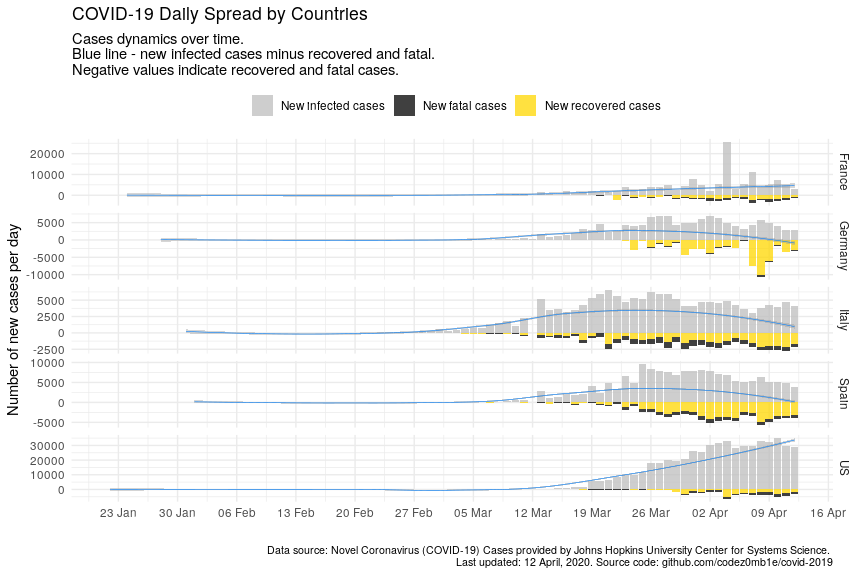
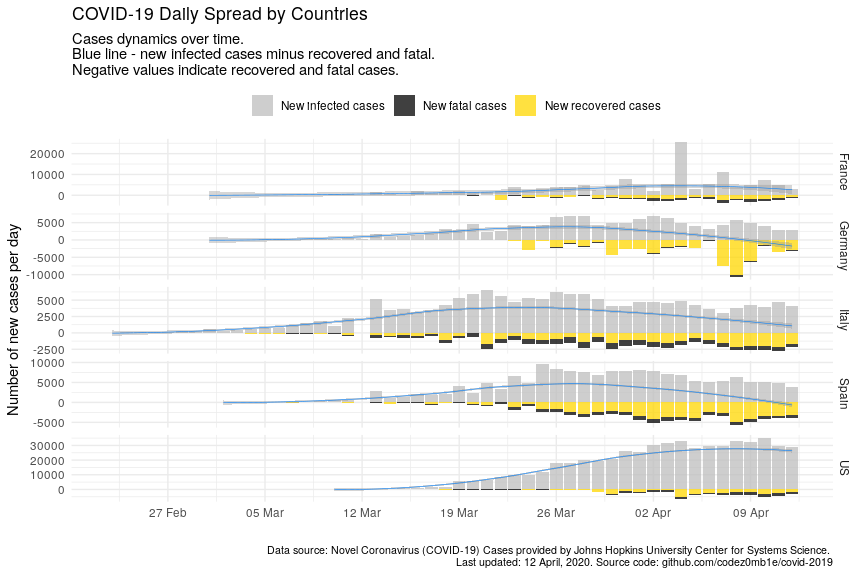
Daily update

diff --git a/src/covid-19-eda.md b/src/covid-19-eda.md
@@ -32,11 +32,11 @@ COVID-19 Analytics
           - [by active cases](#by-active-cases)
           - [by fatal cases](#by-fatal-cases)
       - [Active cases per 1 million population vs number of days since
-        1st infected
-        case](#active-cases-per-1-million-population-vs-number-of-days-since-1st-infected-case)
+        100th infected
+        case](#active-cases-per-1-million-population-vs-number-of-days-since-100th-infected-case)
       - [Active cases per 1 million population vs number of days since
-        1st fatal
-        case](#active-cases-per-1-million-population-vs-number-of-days-since-1st-fatal-case)
+        10th fatal
+        case](#active-cases-per-1-million-population-vs-number-of-days-since-10th-fatal-case)
 
 ## Load datasets
 
@@ -53,18 +53,18 @@ Get list of files in datasets
 Load `covid_19_data.csv` dataset:
 
     ## # A tibble: 100 x 8
-    ##      SNo ObservationDate Province.State Country.Region    Last.Update     Confirmed Deaths Recovered
-    ##    <int> <chr>           <chr>          <chr>             <chr>               <dbl>  <dbl>     <dbl>
-    ##  1  7592 03/21/2020      <NA>           Fiji              2020-03-19T14:…         1      0         0
-    ##  2  1407 02/13/2020      <NA>           Sri Lanka         2020-02-08T03:…         1      0         1
-    ##  3  7918 03/23/2020      <NA>           Algeria           2020-03-23 23:…       230     17        65
-    ##  4  7819 03/22/2020      Guangxi        Mainland China    3/8/20 5:31           254      2       250
-    ##  5  9661 03/28/2020      Maine          US                3/8/20 5:31           211      1         0
-    ##  6  2919 03/01/2020      <NA>           Estonia           2020-02-27T16:…         1      0         0
-    ##  7  5457 03/14/2020      <NA>           United Arab Emir… 2020-03-13T22:…        85      0        17
-    ##  8  5912 03/16/2020      Denmark        Denmark           2020-03-16T18:…       914      3         1
-    ##  9  2708 02/29/2020      Jiangxi        Mainland China    2020-02-29T01:…       935      1       811
-    ## 10  8614 03/25/2020      <NA>           Mongolia          2020-03-25 23:…        10      0         0
+    ##      SNo ObservationDate Province.State   Country.Region Last.Update      Confirmed Deaths Recovered
+    ##    <int> <chr>           <chr>            <chr>          <chr>                <dbl>  <dbl>     <dbl>
+    ##  1  8135 03/23/2020      Kansas           US             2020-03-23 23:2…        84      2         0
+    ##  2  5692 03/15/2020      Shanxi           Mainland China 2020-03-13T11:0…       133      0       133
+    ##  3 12157 04/05/2020      Hong Kong        Hong Kong      2020-04-05 23:1…       890      4       206
+    ##  4  3954 03/07/2020      Davis County, UT US             2020-03-07T04:4…         1      0         0
+    ##  5  5434 03/14/2020      <NA>             Brazil         2020-03-13T22:2…       151      0         0
+    ##  6  9281 03/27/2020      <NA>             Ukraine        2020-03-27 23:2…       310      5         5
+    ##  7  9369 03/27/2020      New Mexico       US             2020-03-27 23:2…       136      1         0
+    ##  8  8015 03/23/2020      <NA>             Montenegro     2020-03-23 23:2…        27      1         0
+    ##  9  5476 03/14/2020      Victoria         Australia      2020-03-14T13:3…        49      0         8
+    ## 10  9314 03/27/2020      Florida          US             2020-03-27 23:2…      2900     35         0
     ## # … with 90 more rows
 
 ### Load world population data
@@ -290,7 +290,7 @@ cases minus recovered and fatal) cases grouped by country:
 
 Get countries ordered by total active cases:
 
-    ## # A tibble: 7,727 x 10
+    ## # A tibble: 3,143 x 10
     ##    country observation_date active_total active_total_de… confirmed_total confirmed_total…
     ##    <chr>   <date>                  <dbl> <chr>                      <dbl> <chr>           
     ##  1 US      2020-04-12             500305 5.40%                     555313 5.49%           
@@ -303,7 +303,7 @@ Get countries ordered by total active cases:
     ##  8 Iran    2020-04-12              23318 -1.72%                     71686 2.37%           
     ##  9 Nether… 2020-04-12              22704 4.98%                      25746 4.78%           
     ## 10 Brazil  2020-04-12              20796 7.03%                      22192 7.07%           
-    ## # … with 7,717 more rows, and 4 more variables: recovered_total <dbl>, recovered_total_delta <chr>,
+    ## # … with 3,133 more rows, and 4 more variables: recovered_total <dbl>, recovered_total_delta <chr>,
     ## #   deaths_total <dbl>, deaths_total_delta <chr>
 
 ![](covid-19-eda_files/figure-gfm/unnamed-chunk-20-1.png)<!-- -->
@@ -324,21 +324,21 @@ Get daily dynamics of new infected and recovered cases by countries.
 
 World daily spread:
 
-    ## # A tibble: 7,727 x 6
-    ## # Groups:   country [220]
-    ##    country   observation_date confirmed_total_p… recovered_total_… deaths_total_pe… active_total_pe…
-    ##    <chr>     <date>                        <dbl>             <dbl>            <dbl>            <dbl>
-    ##  1 Afghanis… 2020-04-12                       52                 0                0               52
-    ##  2 Albania   2020-04-12                       13                20                0               -7
-    ##  3 Algeria   2020-04-12                       89               131               18              -60
-    ##  4 Andorra   2020-04-12                       37                57                3              -23
-    ##  5 Angola    2020-04-12                        0                 0                0                0
-    ##  6 Antigua … 2020-04-12                        0                 0                0                0
-    ##  7 Argentina 2020-04-12                      167                28                7              132
-    ##  8 Armenia   2020-04-12                       46                24                0               22
-    ##  9 Australia 2020-04-12                       12                 0                3                9
-    ## 10 Austria   2020-04-12                      139               383               13             -257
-    ## # … with 7,717 more rows
+    ## # A tibble: 3,143 x 6
+    ## # Groups:   country [125]
+    ##    country  observation_date confirmed_total_p… recovered_total_p… deaths_total_pe… active_total_pe…
+    ##    <chr>    <date>                        <dbl>              <dbl>            <dbl>            <dbl>
+    ##  1 Afghani… 2020-04-12                       52                  0                0               52
+    ##  2 Albania  2020-04-12                       13                 20                0               -7
+    ##  3 Algeria  2020-04-12                       89                131               18              -60
+    ##  4 Andorra  2020-04-12                       37                 57                3              -23
+    ##  5 Argenti… 2020-04-12                      167                 28                7              132
+    ##  6 Armenia  2020-04-12                       46                 24                0               22
+    ##  7 Austral… 2020-04-12                       12                  0                3                9
+    ##  8 Austria  2020-04-12                      139                383               13             -257
+    ##  9 Azerbai… 2020-04-12                       40                 50                0              -10
+    ## 10 Bahrain  2020-04-12                       96                  3                0               93
+    ## # … with 3,133 more rows
 
     ## `geom_smooth()` using formula 'y ~ x'
 
@@ -350,20 +350,20 @@ World daily spread:
 
 ### Mortality rate
 
-    ## # A tibble: 44 x 8
-    ##    country observation_date first_confirmed… first_deaths_ca… recovered_total deaths_total
+    ## # A tibble: 34 x 8
+    ##    country observation_date since_100_confi… since_10_deaths… recovered_total deaths_total
     ##    <chr>   <date>           <date>           <date>                     <dbl>        <dbl>
-    ##  1 US      2020-04-12       2020-01-22       2020-02-29                 32988        22020
-    ##  2 US      2020-04-11       2020-01-22       2020-02-29                 31270        20463
-    ##  3 US      2020-04-10       2020-01-22       2020-02-29                 28790        18586
-    ##  4 US      2020-04-09       2020-01-22       2020-02-29                 25410        16478
-    ##  5 US      2020-04-08       2020-01-22       2020-02-29                 23559        14695
-    ##  6 US      2020-04-07       2020-01-22       2020-02-29                 21763        12722
-    ##  7 US      2020-04-06       2020-01-22       2020-02-29                 19581        10783
-    ##  8 US      2020-04-05       2020-01-22       2020-02-29                 17448         9619
-    ##  9 US      2020-04-04       2020-01-22       2020-02-29                 14652         8407
-    ## 10 US      2020-04-03       2020-01-22       2020-02-29                  9707         7087
-    ## # … with 34 more rows, and 2 more variables: confirmed_deaths_rate <dbl>,
+    ##  1 US      2020-04-12       2020-03-10       2020-03-04                 32988        22020
+    ##  2 US      2020-04-11       2020-03-10       2020-03-04                 31270        20463
+    ##  3 US      2020-04-10       2020-03-10       2020-03-04                 28790        18586
+    ##  4 US      2020-04-09       2020-03-10       2020-03-04                 25410        16478
+    ##  5 US      2020-04-08       2020-03-10       2020-03-04                 23559        14695
+    ##  6 US      2020-04-07       2020-03-10       2020-03-04                 21763        12722
+    ##  7 US      2020-04-06       2020-03-10       2020-03-04                 19581        10783
+    ##  8 US      2020-04-05       2020-03-10       2020-03-04                 17448         9619
+    ##  9 US      2020-04-04       2020-03-10       2020-03-04                 14652         8407
+    ## 10 US      2020-04-03       2020-03-10       2020-03-04                  9707         7087
+    ## # … with 24 more rows, and 2 more variables: confirmed_deaths_rate <dbl>,
     ## #   recovered_deaths_rate <dbl>
 
 ![](covid-19-eda_files/figure-gfm/unnamed-chunk-27-1.png)<!-- -->
@@ -374,20 +374,20 @@ World daily spread:
 
 ## COVID-19 spread by countries population
 
-    ## # A tibble: 73 x 5
-    ##    country n_days_since_1st_confirmed population confirmed_total confirmed_total_per_1M
+    ## # A tibble: 27 x 5
+    ##    country n_days_since_100_confirmed population confirmed_total confirmed_total_per_1M
     ##    <chr>                        <dbl>      <int>           <dbl>                  <dbl>
-    ##  1 Russia                          72  145934462           15770                  108. 
-    ##  2 Russia                          71  145934462           13584                   93.1
-    ##  3 Russia                          70  145934462           11917                   81.7
-    ##  4 Russia                          69  145934462           10131                   69.4
-    ##  5 Russia                          68  145934462            8672                   59.4
-    ##  6 Russia                          67  145934462            7497                   51.4
-    ##  7 Russia                          66  145934462            6343                   43.5
-    ##  8 Russia                          65  145934462            5389                   36.9
-    ##  9 Russia                          64  145934462            4731                   32.4
-    ## 10 Russia                          63  145934462            4149                   28.4
-    ## # … with 63 more rows
+    ##  1 Russia                          26  145934462           15770                  108. 
+    ##  2 Russia                          25  145934462           13584                   93.1
+    ##  3 Russia                          24  145934462           11917                   81.7
+    ##  4 Russia                          23  145934462           10131                   69.4
+    ##  5 Russia                          22  145934462            8672                   59.4
+    ##  6 Russia                          21  145934462            7497                   51.4
+    ##  7 Russia                          20  145934462            6343                   43.5
+    ##  8 Russia                          19  145934462            5389                   36.9
+    ##  9 Russia                          18  145934462            4731                   32.4
+    ## 10 Russia                          17  145934462            4149                   28.4
+    ## # … with 17 more rows
 
 ### TOPs countries by infected, active, and fatal cases
 
@@ -397,65 +397,67 @@ virus:
 #### …by infected cases
 
     ## # A tibble: 68 x 6
-    ##    country   population confirmed_total confirmed_total_pe… n_days_since_1st_co… n_days_since_1st_d…
+    ##    country   population confirmed_total confirmed_total_pe… n_days_since_100_co… n_days_since_10th_…
     ##    <chr>          <int>           <dbl>               <dbl>                <dbl>               <dbl>
-    ##  1 Spain       46754778          166831               3568.                   71                  40
-    ##  2 Switzerl…    8654622           25415               2937.                   47                  38
-    ##  3 Italy       60461826          156363               2586.                   72                  51
-    ##  4 Belgium     11589623           29647               2558.                   68                  32
-    ##  5 France      65273511          133670               2048.                   79                  57
-    ##  6 Ireland      4937786            9655               1955.                   43                  32
-    ##  7 US         331002651          555313               1678.                   81                  43
-    ##  8 Portugal    10196709           16585               1627.                   41                  26
-    ##  9 Austria      9006398           13945               1548.                   47                  31
-    ## 10 Germany     83783942          127854               1526.                   75                  34
+    ##  1 Spain       46754778          166831               3568.                   41                  35
+    ##  2 Switzerl…    8654622           25415               2937.                   38                  30
+    ##  3 Italy       60461826          156363               2586.                   49                  46
+    ##  4 Belgium     11589623           29647               2558.                   37                  25
+    ##  5 France      65273511          133670               2048.                   42                  36
+    ##  6 Ireland      4937786            9655               1955.                   29                  17
+    ##  7 US         331002651          555313               1678.                   33                  39
+    ##  8 Portugal    10196709           16585               1627.                   30                  22
+    ##  9 Austria      9006398           13945               1548.                   35                  21
+    ## 10 Germany     83783942          127854               1526.                   42                  28
     ## # … with 58 more rows
 
 #### …by active cases
 
     ## # A tibble: 68 x 6
-    ##    country    population active_total active_total_per_… n_days_since_1st_conf… n_days_since_1st_de…
+    ##    country    population active_total active_total_per_… n_days_since_100_conf… n_days_since_10th_d…
     ##    <chr>           <int>        <dbl>              <dbl>                  <dbl>                <dbl>
-    ##  1 Ireland       4937786         9296              1883.                     43                   32
-    ##  2 Spain        46754778        87231              1866.                     71                   40
-    ##  3 Italy        60461826       102253              1691.                     72                   51
-    ##  4 Belgium      11589623        19584              1690.                     68                   32
-    ##  5 Portugal     10196709        15804              1550.                     41                   26
-    ##  6 US          331002651       500305              1511.                     81                   43
-    ##  7 France       65273511        91789              1406.                     79                   57
-    ##  8 Switzerla…    8654622        11609              1341.                     47                   38
-    ##  9 Netherlan…   17134872        22704              1325.                     45                   37
-    ## 10 Norway        5421241         6365              1174.                     46                   29
+    ##  1 Ireland       4937786         9296              1883.                     29                   17
+    ##  2 Spain        46754778        87231              1866.                     41                   35
+    ##  3 Italy        60461826       102253              1691.                     49                   46
+    ##  4 Belgium      11589623        19584              1690.                     37                   25
+    ##  5 Portugal     10196709        15804              1550.                     30                   22
+    ##  6 US          331002651       500305              1511.                     33                   39
+    ##  7 France       65273511        91789              1406.                     42                   36
+    ##  8 Switzerla…    8654622        11609              1341.                     38                   30
+    ##  9 Netherlan…   17134872        22704              1325.                     37                   29
+    ## 10 Norway        5421241         6365              1174.                     37                   19
     ## # … with 58 more rows
 
 #### …by fatal cases
 
     ## # A tibble: 68 x 6
-    ##    country     population deaths_total deaths_total_per_… n_days_since_1st_conf… n_days_since_1st_d…
-    ##    <chr>            <int>        <dbl>              <dbl>                  <dbl>               <dbl>
-    ##  1 Spain         46754778        17209              368.                      71                  40
-    ##  2 Italy         60461826        19899              329.                      72                  51
-    ##  3 Belgium       11589623         3600              311.                      68                  32
-    ##  4 France        65273511        14412              221.                      79                  57
-    ##  5 Netherlands   17134872         2747              160.                      45                  37
-    ##  6 United Kin…   67886011        10629              157.                      72                  38
-    ##  7 Switzerland    8654622         1106              128.                      47                  38
-    ##  8 Sweden        10099265          899               89.0                     72                  32
-    ##  9 Ireland        4937786          334               67.6                     43                  32
-    ## 10 US           331002651        22020               66.5                     81                  43
+    ##    country     population deaths_total deaths_total_per_… n_days_since_100_con… n_days_since_10th_d…
+    ##    <chr>            <int>        <dbl>              <dbl>                 <dbl>                <dbl>
+    ##  1 Spain         46754778        17209              368.                     41                   35
+    ##  2 Italy         60461826        19899              329.                     49                   46
+    ##  3 Belgium       11589623         3600              311.                     37                   25
+    ##  4 France        65273511        14412              221.                     42                   36
+    ##  5 Netherlands   17134872         2747              160.                     37                   29
+    ##  6 United Kin…   67886011        10629              157.                     38                   29
+    ##  7 Switzerland    8654622         1106              128.                     38                   30
+    ##  8 Sweden        10099265          899               89.0                    37                   24
+    ##  9 Ireland        4937786          334               67.6                    29                   17
+    ## 10 US           331002651        22020               66.5                    33                   39
     ## # … with 58 more rows
 
-### Active cases per 1 million population vs number of days since 1st infected case
+### Active cases per 1 million population vs number of days since 100th infected case
 
 Select countries to
     monitoring:
 
     ##  [1] "Belgium"        "France"         "Ireland"        "Italy"          "Netherlands"   
     ##  [6] "Norway"         "Portugal"       "Spain"          "Switzerland"    "US"            
-    ## [11] "Russia"         "India"          "Mainland China" "South Korea"
+    ## [11] "Russia"         "Mainland China" "Korea, South"
 
 ![](covid-19-eda_files/figure-gfm/unnamed-chunk-36-1.png)<!-- -->
 
-### Active cases per 1 million population vs number of days since 1st fatal case
+### Active cases per 1 million population vs number of days since 10th fatal case
 
 ![](covid-19-eda_files/figure-gfm/unnamed-chunk-37-1.png)<!-- -->
+
+**Stay healthy. Help the sick.**
